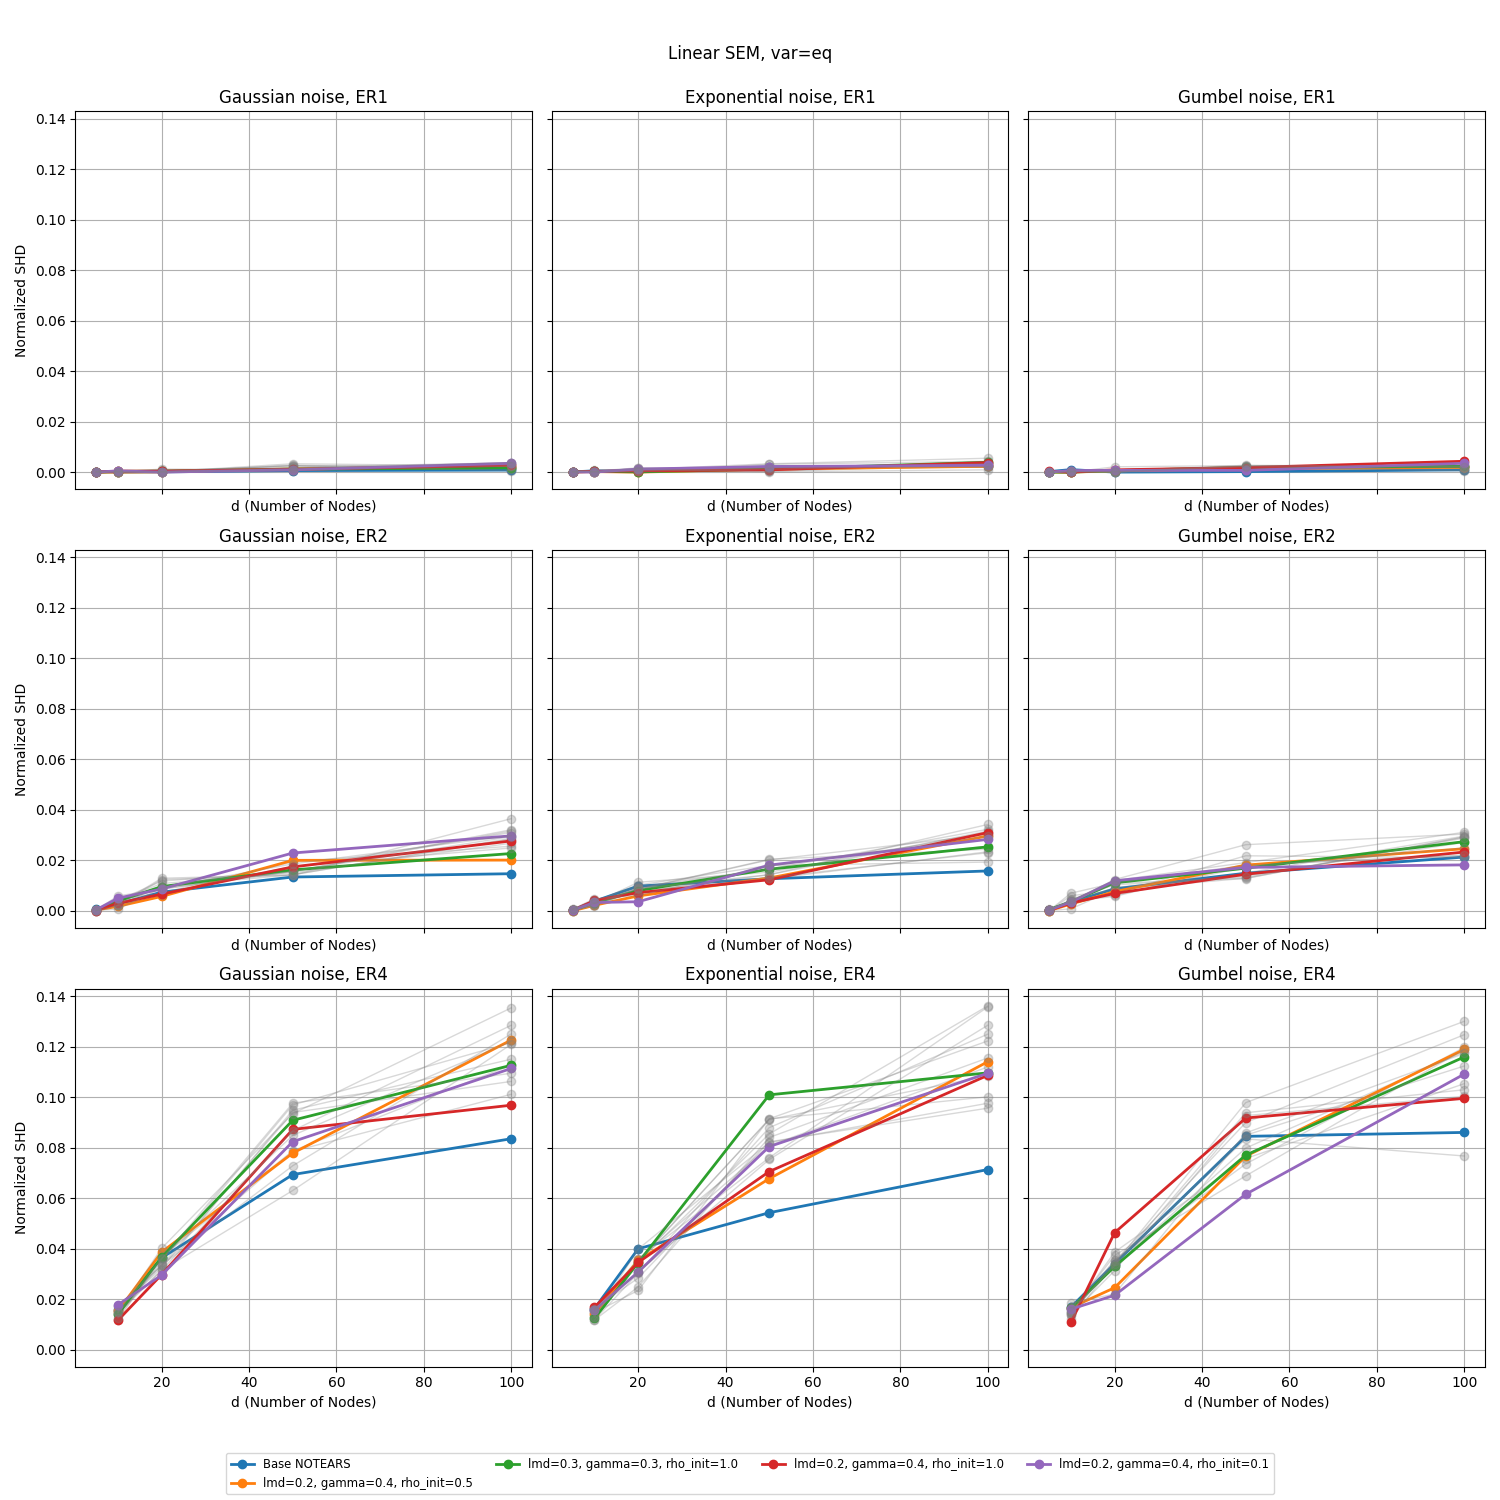
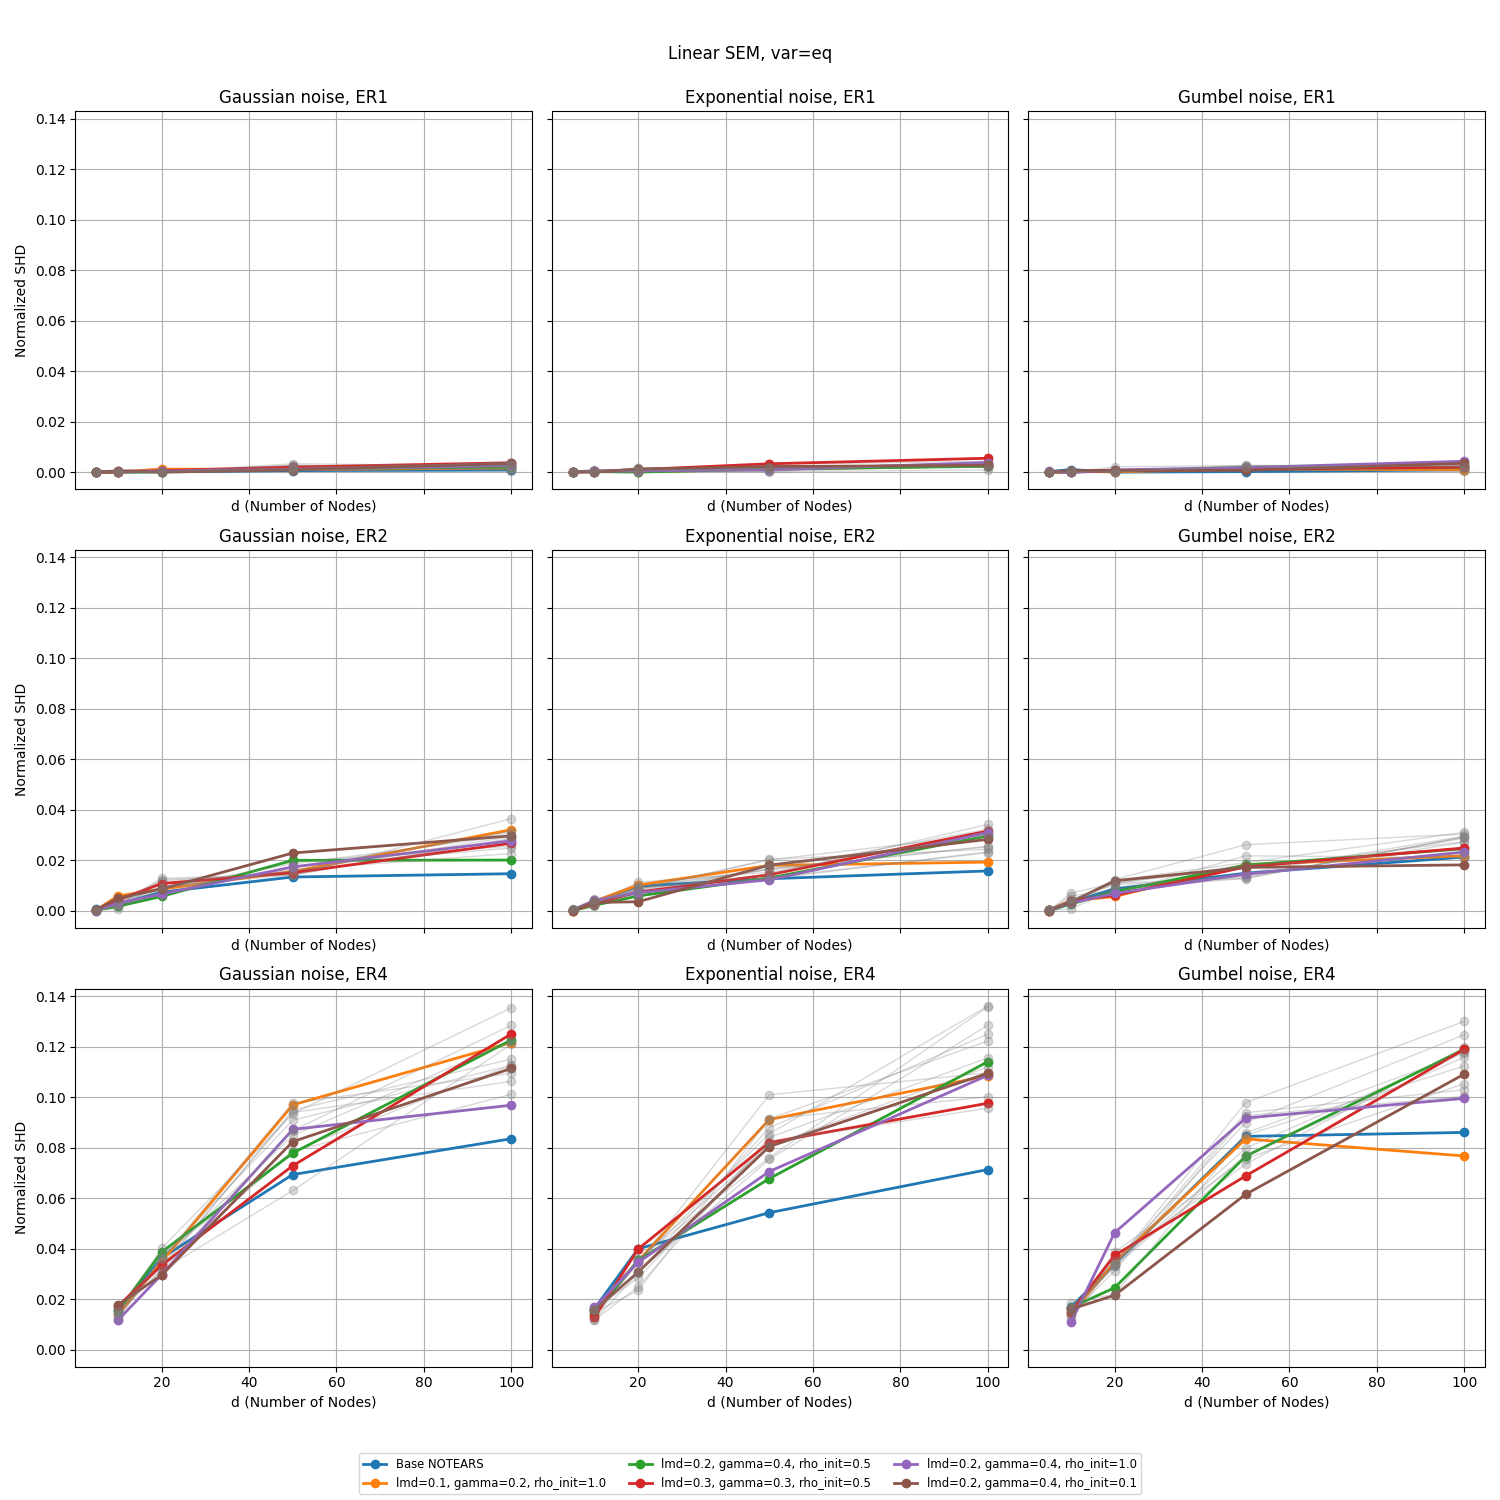
show results

diff --git a/benchmark/grid_search/simple_construct.py b/benchmark/grid_search/simple_construct.py
@@ -111,7 +111,7 @@ def make_error_var_plot(error_var):
     )
     plt.tight_layout(rect=[0, 0.05, 1, 0.95])
     plt.suptitle(f"Linear SEM, var={error_var}", y=0.97)
-    plt.savefig(f"normalized_shd_n=1000_var={error_var}_top5_plus_baseline.png")
+    plt.savefig(f"normalized_shd_n=1000_var={error_var}_top5.png")
 
 
 make_error_var_plot("eq")
